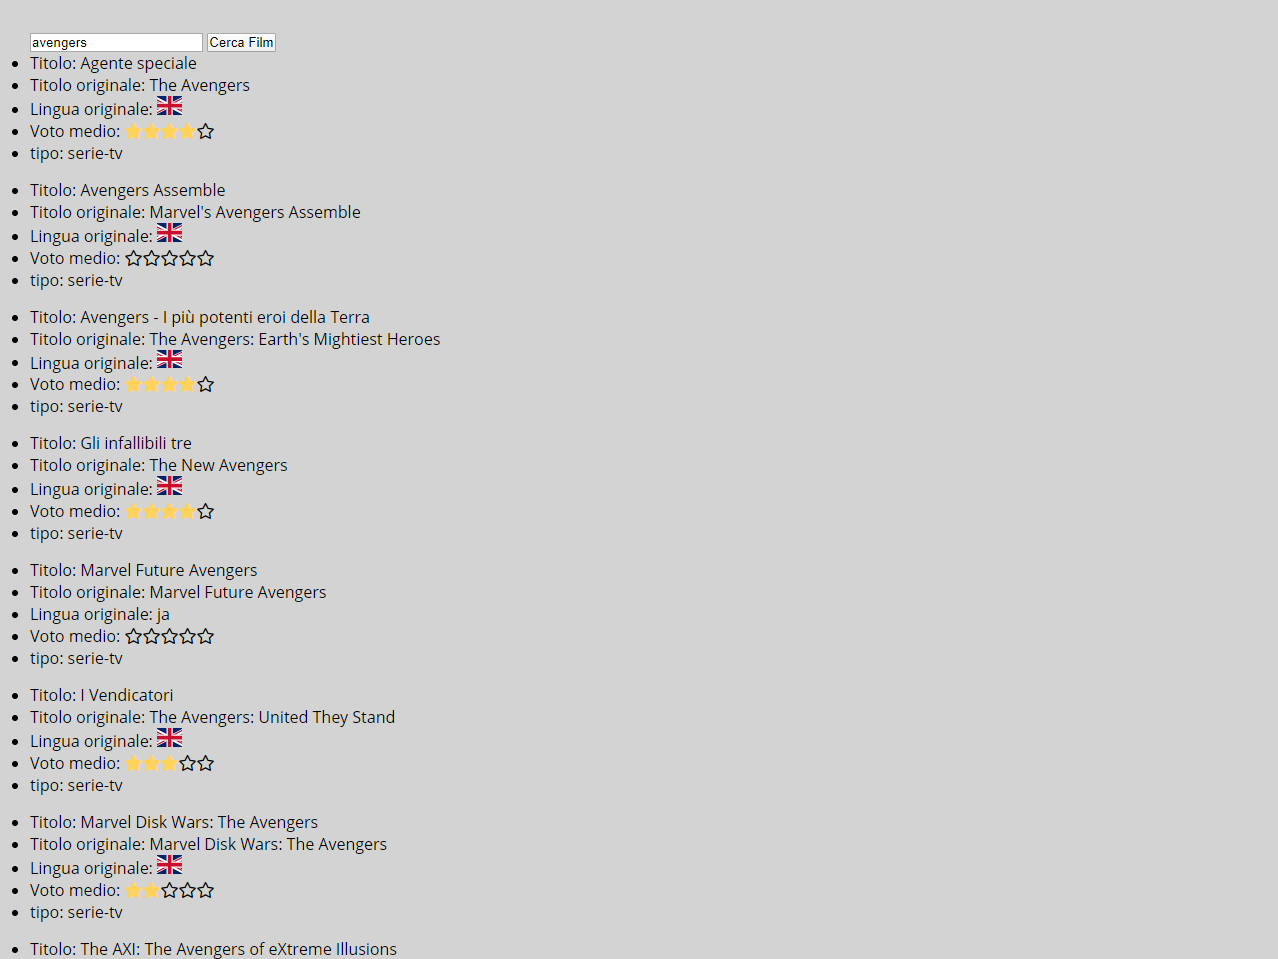
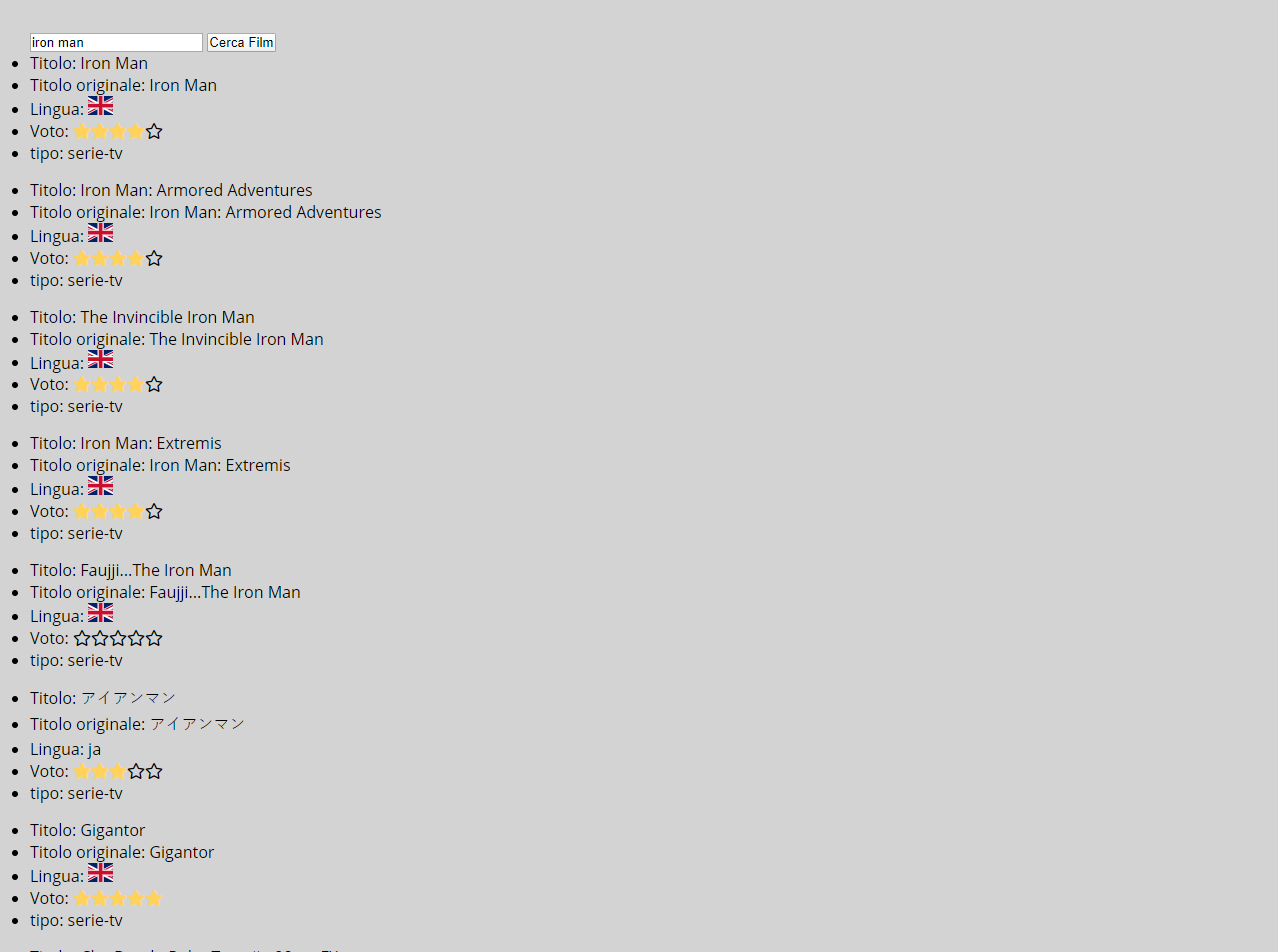
added function calls other functions, minor fix

Changed region(s): [[0.0, 0.0305, 0.3357, 1.0]]

diff --git a/js/main.js b/js/main.js
@@ -1,3 +1,7 @@
+/* Best Comments In Source
+     * Dear future me. Please forgive me. 
+       I can't even begin to express how sorry I am.^_^
+*/
 $(document).ready(function (){
 
   //handlebars
@@ -13,115 +17,116 @@ $(document).ready(function (){
   
   //al click
   btnSearch.click(function(){
-    pulisciRisultati(lista,resultTV,resultFilm);
-    apiCercaSerieTv(inputSearch,template,lista);
-    apiCercaFilm(inputSearch,template,lista);    
+    chiamaFunzioni(lista,resultTV,resultFilm,inputSearch,template)
   })
 
   //alla pressione del tasto invio
   inputSearch.keyup(function(event){
-
     if(event.which === 13){
-      pulisciRisultati(lista,resultTV,resultFilm);
-      apiCercaSerieTv(inputSearch,template,lista);
-      apiCercaFilm(inputSearch,template,lista);
+      chiamaFunzioni(lista,resultTV,resultFilm,inputSearch,template)
     }
   })
   
 });//fine ready
 
 
-/* 
+/********** 
   FUNZIONI
-*/
+**********/
+
+//chiamata funzione
+function chiamaFunzioni(lista,resultTV,resultFilm,inputSearch,template){
+  if(inputSearch.val() !== "" ){
+    pulisciRisultati(lista,resultTV,resultFilm);
+    apiCercaSerieTv(inputSearch,template,lista);
+    apiCercaFilm(inputSearch,template,lista);    
+    }else{
+      alert("Nessun carattere inserito nella ricerca")
+      inputSearch.focus();
+    }
+}
 
 //cerca serie tv
 function apiCercaSerieTv(inputSearch,template,lista){
+ 
   console.log("chiamata serie tv");
+  var query = inputSearch.val().toLowerCase().trim();
   
-  if(inputSearch.val() != "" ){
+  $.ajax({
+    url: "https://api.themoviedb.org/3/search/tv",
+    method: "GET",
+    data:{
+      api_key: "676860408bcc47c8ae82c5de9ed14e0e",
+      language: "it-IT",
+      query: query
+    },
+    success: function(res){
+      
+      if(res.results.length > 0){
 
-    var query = inputSearch.val().toLowerCase().trim();
-    
-    $.ajax({
-      url: "https://api.themoviedb.org/3/search/tv",
-      method: "GET",
-      data:{
-        api_key: "676860408bcc47c8ae82c5de9ed14e0e",
-        language: "it-IT",
-        query: query
-      },
-      success: function(res){
-        
-        if(res.results.length > 0){
+        res.results.forEach(function(datiFilm){
+          var film ={
+            title: datiFilm.name,
+            originalTitle: datiFilm.original_name,
+            originalLanguage: bandiera(datiFilm.original_language),
+            voteAverage: votoStelle(datiFilm.vote_average),
+            tipoSerie : "serie-tv"
+          }
+          
+          lista.append(template(film));
+          //inputSearch.val("");
+        })
 
-          res.results.forEach(function(datiFilm){
-            var film ={
-              title: datiFilm.name,
-              originalTitle: datiFilm.original_name,
-              originalLanguage: bandiera(datiFilm.original_language),
-              voteAverage: votoStelle(datiFilm.vote_average),
-              tipoSerie : "serie-tv"
-            }
-            
-            lista.append(template(film));
-            //inputSearch.val("");
-          })
-
-        }else{
-          $(".tv-series").text("Nessuna serie tv trovata")
-        }
-      },
-      error: function(){
-        console.log("Errore Api");
+      }else{
+        $(".tv-series").text("Nessuna serie tv trovata")
       }
-    });//fine chiamata ajax
-  }//fine if confronto
+    },
+    error: function(){
+      console.log("Errore Api");
+    }
+  });//fine chiamata ajax
 }//fine apiCercaSerieTv
 
 
 //cerca film
 function apiCercaFilm (inputSearch,template,lista){
-  console.log("chiamata film");
   
-  if(inputSearch.val() != "" ){
+  console.log("chiamata film");
+  var query = inputSearch.val().toLowerCase().trim();
+  
+  $.ajax({
+    url: "https://api.themoviedb.org/3/search/movie",
+    method: "GET",
+    data:{
+      api_key: "676860408bcc47c8ae82c5de9ed14e0e",
+      language: "it-IT",
+      query: query
+    },
+    success: function(res){
+      
+      if(res.results.length > 0){
 
-    var query = inputSearch.val().toLowerCase().trim();
-    
-    $.ajax({
-      url: "https://api.themoviedb.org/3/search/movie",
-      method: "GET",
-      data:{
-        api_key: "676860408bcc47c8ae82c5de9ed14e0e",
-        language: "it-IT",
-        query: query
-      },
-      success: function(res){
-        
-        if(res.results.length > 0){
+        res.results.forEach(function(datiFilm){
+          var film ={
+            title: datiFilm.title,
+            originalTitle: datiFilm.original_title,
+            originalLanguage: bandiera(datiFilm.original_language),
+            voteAverage: votoStelle(datiFilm.vote_average),
+            tipoSerie : "film"
+          }
+          
+          lista.append(template(film));
+          //inputSearch.val("");
+        })
 
-          res.results.forEach(function(datiFilm){
-            var film ={
-              title: datiFilm.title,
-              originalTitle: datiFilm.original_title,
-              originalLanguage: bandiera(datiFilm.original_language),
-              voteAverage: votoStelle(datiFilm.vote_average),
-              tipoSerie : "film"
-            }
-            
-            lista.append(template(film));
-            //inputSearch.val("");
-          })
-
-        }else{
-          $(".film-series").text("Nessun film trovato")
-        }
-      },
-      error: function(){
-        console.log("Errore Api");
+      }else{
+        $(".film-series").text("Nessun film trovato")
       }
-    });//fine chiamata ajax
-  }//fine if confronto
+    },
+    error: function(){
+      console.log("Errore Api");
+    }
+  });//fine chiamata ajax
 }//fine apiCercaFilm 
 
 

diff --git a/index.html b/index.html
@@ -33,6 +33,7 @@
       <h2 class="tv-series"></h2>
       <h2 class="film-series"></h2>
     </div>
+    
     <div class="films">
     
     </div>
@@ -56,11 +57,11 @@
           <span>{{ originalTitle }}</span>
         </li>
         <li class="original-language">
-          <span>Lingua originale: </span>
+          <span>Lingua: </span>
           <span>{{{ originalLanguage }}}</span>
         </li>
         <li class="vote-average">
-          <span>Voto medio: </span>
+          <span>Voto: </span>
           <span>{{{ voteAverage }}}</span>
         </li>
         <li class="tipo-serie">
